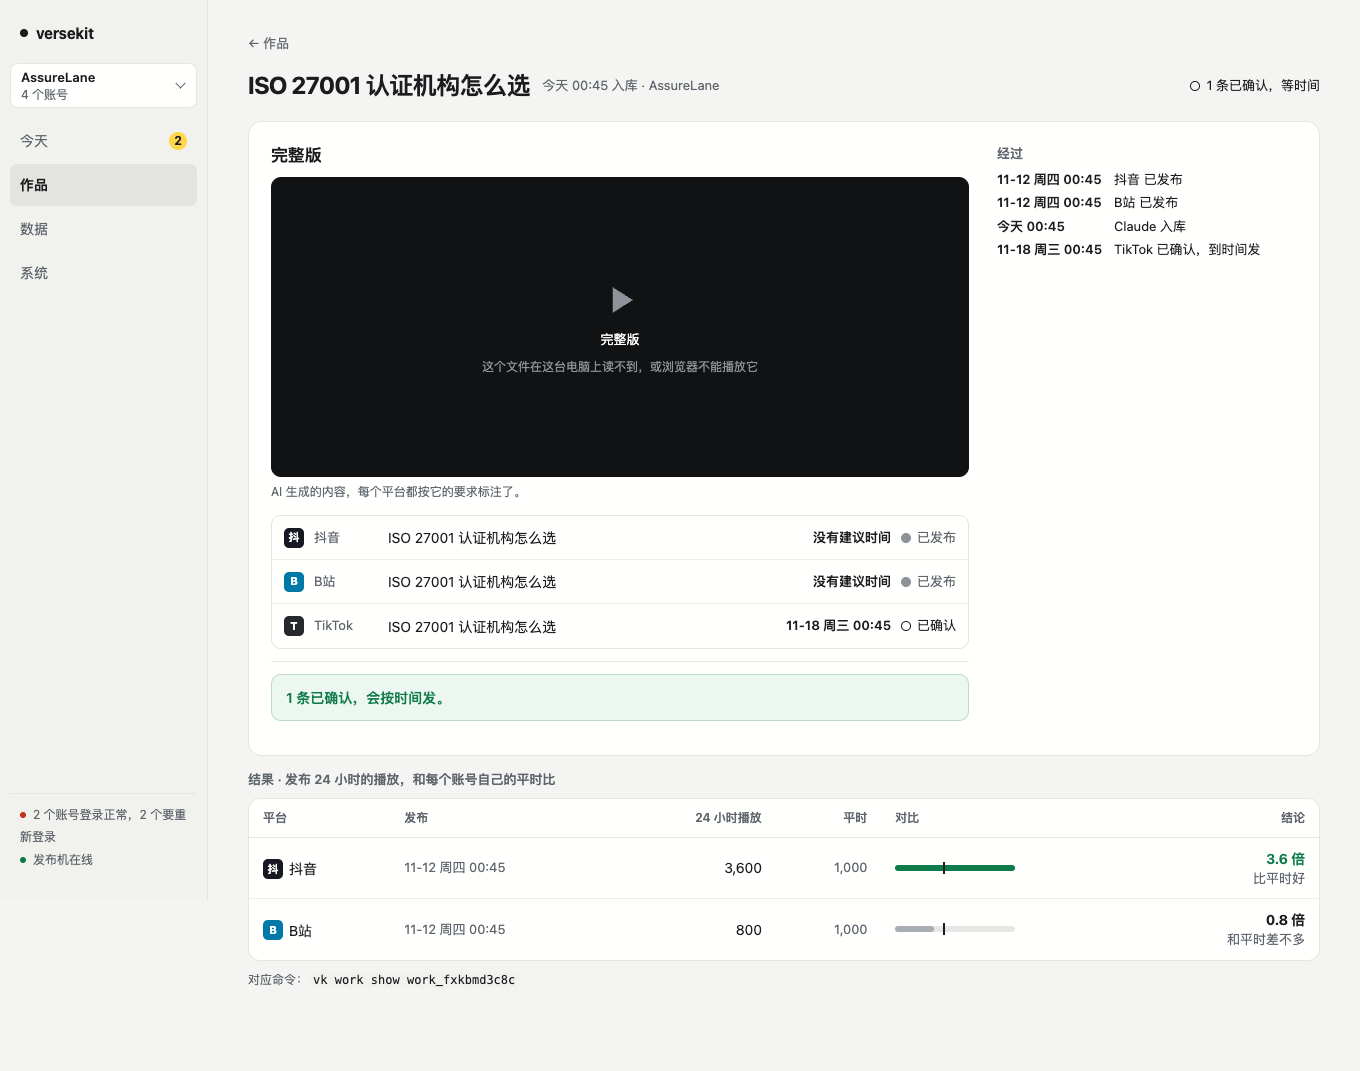
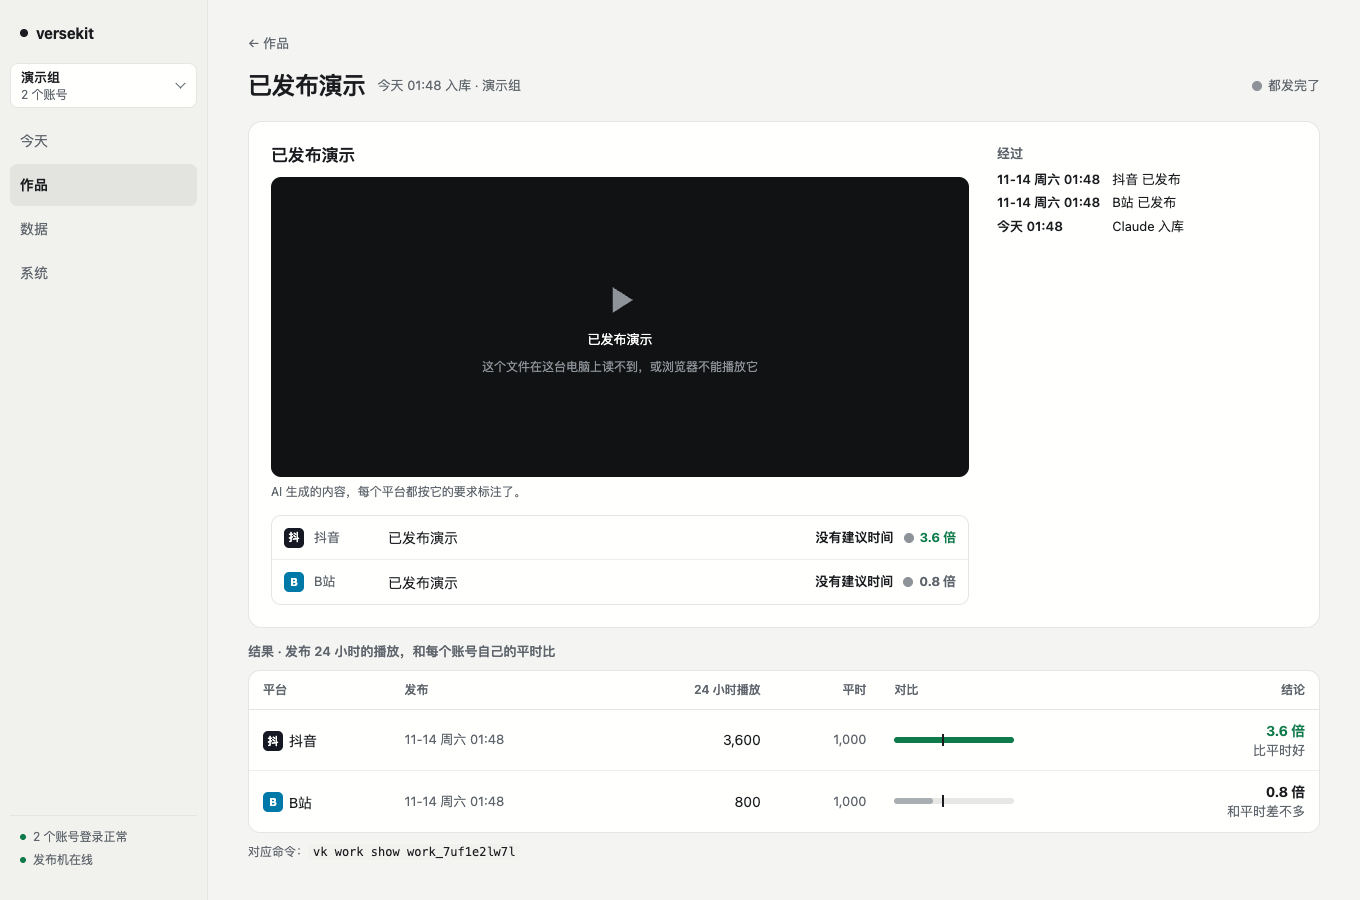
fix(web): 已发布的平台行自己显示和平时比的倍数 (#149)
验收 ACC-v2-web-04：成片面板里发过的行只写「已发布」，倍数只在下方结果表。
任务书写的是「发过的成片每行换成结果」，所以行尾直接写倍数，基线不足写「还没法比」。

diff --git a/packages/web/public/panel.js b/packages/web/public/panel.js
@@ -72,6 +72,10 @@ window.VKPanel = function createPanel(state) {
     if (p.state === "draft_pending") return '<span class="st wait">待确认草稿</span>';
     if (p.state === "skipped") return '<span class="st">不发</span>';
     if (["failed", "blocked", "expired"].includes(p.state)) return '<span class="st bad">出了问题</span>';
+    // 已发布的行自己写结果：和这个账号平时比的倍数；满 24 小时但基线不足写「还没法比」。
+    const q = p.multiple;
+    if (q != null) return `<span class="st pub res"><span class="x ${ratioCls(q)}">${ratioText(q)}</span></span>`;
+    if ("multiple" in p) return `<span class="st pub res" title="${esc(p.reason ?? "")}">还没法比</span>`;
     return '<span class="st pub">已发布</span>';
   }
 

diff --git a/packages/web/public/app.css b/packages/web/public/app.css
@@ -397,4 +397,5 @@ a.hint{display:inline-flex;align-items:center;min-height:32px;text-underline-off
   .app .grp{flex:1 1 100%;margin:0}
   .app .grp .menu{position:static;margin-top:4px}
   .app .hd .r{margin-left:0}
-}
+}.st.res{font-weight:600;color:var(--ink)}
+.st.res .x{font-size:14px}
